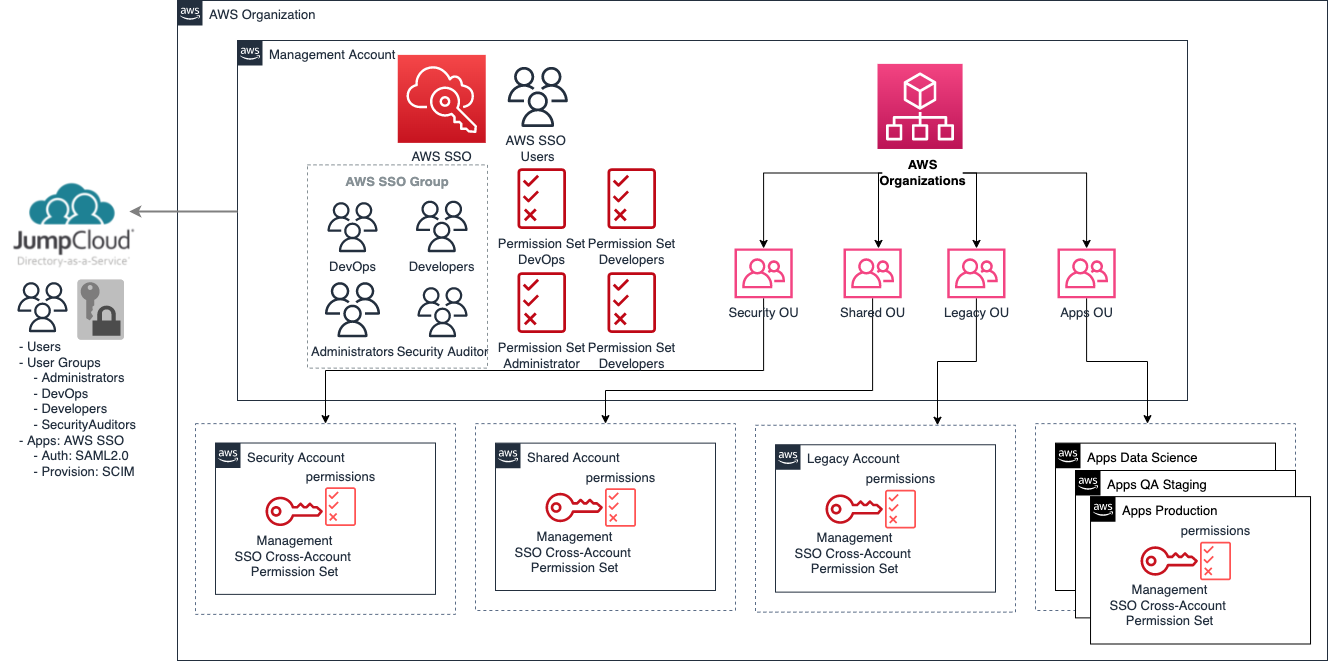
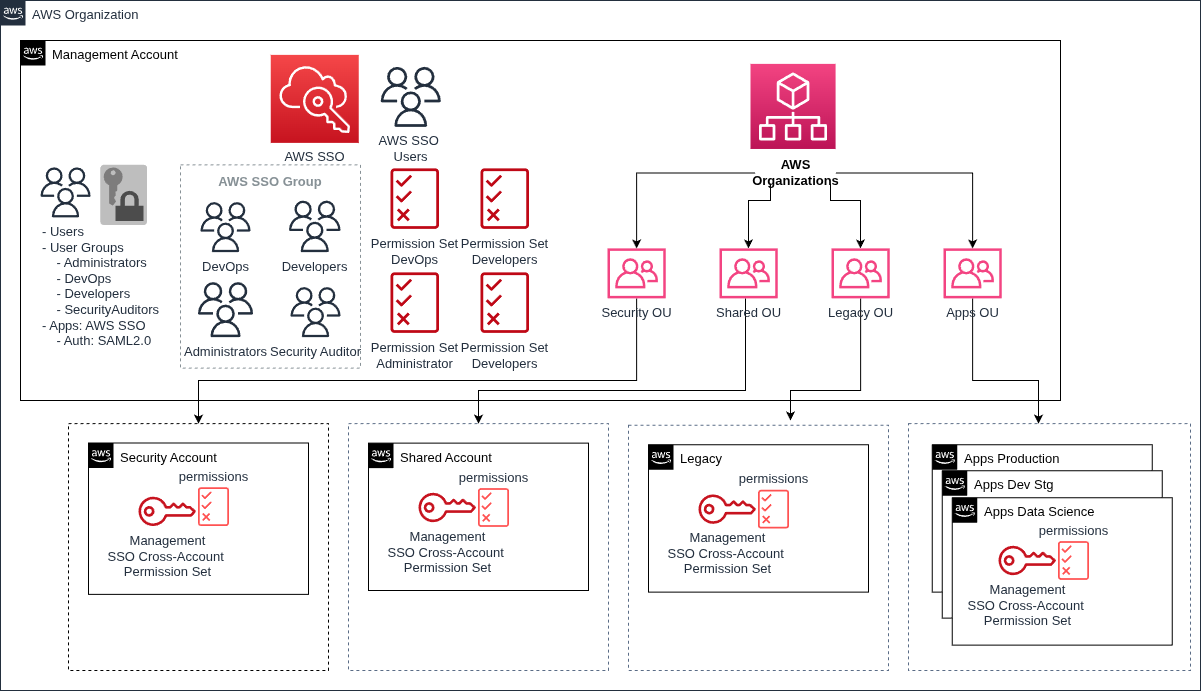
Remove references to JumpCloud

diff --git a/docs/user-guide/ref-architecture-aws/features/sso/overview.md b/docs/user-guide/ref-architecture-aws/features/sso/overview.md
@@ -1,16 +1,8 @@
 # AWS SSO
 
-!!! warn "Important"
-    Parts of this documentation are outdated. JumpCloud is no longer part of our reference architecture.
-
-## Single Sign-On (SSO)
-JumpCloud will be configured as the Identity Provider (IdP) that we will integrate with AWS SSO
-in order to grant users access to AWS resources from a centralized service.
-Users will be able to log in to JumpCloud in order to access AWS accounts, using specific permission sets that will in turn determine what kind of actions they are allowed on AWS resources.
-
 ![leverage-aws-sso](/assets/images/diagrams/aws-sso.png "Leverage"){: style="width:750px"}
 <figcaption style="font-size:15px">
-<b>Figure:</b> AWS Organization with SSO + JumpCloud IdP diagram.
+<b>Figure:</b> AWS Organization with SSO diagram.
 (Source: binbash Leverage,
 "Leverage Reference Architecture components",
 binbash Leverage Doc, accessed January 4th 2022).
@@ -23,9 +15,6 @@ binbash Leverage Doc, accessed January 4th 2022).
 - [x] SSO and user lifecycle management
 - [x] Secure app and server authentication with cloud LDAP
 - [x] Event logging, reporting, and monitoring
-
-### SSO Users
-Users will be defined in JumpCloud and used for deploying AWS resources with scoped permissions.
 
 ### SSO Groups
 | Account / Groups | Administrators | DevOps | FinOps | SecurityAuditors |
@@ -46,6 +35,5 @@ Users will be defined in JumpCloud and used for deploying AWS resources with sco
 | Apps-Prd                  | x             | x      |        | x                |
 
 !!! Info "Considerations"
-     1. Devops Engineers will assume this permission set through JumpCloud + AWS SSO.
-     2. Developers could have their specific SSO Group + Permission Set policy association.
-     3. This definition could be fully customized based on the project specific needs
+     1. Developers could have their specific SSO Group + Permission Set policy association.
+     2. This definition could be fully customized based on the project specific needs

diff --git a/docs/user-guide/ref-architecture-aws/features/sso/configuration.md b/docs/user-guide/ref-architecture-aws/features/sso/configuration.md
@@ -6,11 +6,6 @@ Before deploying your AWS SSO definition in the project, it will first have to b
 !!! note ":books: [Prerequisites](https://docs.aws.amazon.com/singlesignon/latest/userguide/prereqs.html)"
 !!! info ":books: [Enable AWS SSO](https://docs.aws.amazon.com/singlesignon/latest/userguide/step1.html)"
 
-After that, choosing and configuring an Identity Provider (IdP) is the next step. For this, we will make use of JumpCloud, as described in the [how it works](/user-guide/ref-architecture-aws/features/sso/overview/) section. These resources point to all requirements and procedures to have your JumpCloud account setup and synched with AWS SSO:
-
-!!! info ":books: [AWS JumpCloud support guide](https://docs.aws.amazon.com/singlesignon/latest/userguide/jumpcloud-idp.html)"
-!!! info ":books: [JumpCloud guide on how to configure as IdP for AWS SSO](https://docs.aws.amazon.com/singlesignon/latest/userguide/jumpcloud-idp.html)"
-
 Once this is set up, the SSO layer can be safely deployed.
 
 ## Preparing the project to use AWS SSO

diff --git a/docs/user-guide/ref-architecture-aws/features/index.md b/docs/user-guide/ref-architecture-aws/features/index.md
@@ -17,7 +17,7 @@ This reference architecture supports a growing number of AWS services. This sect
     - [x] [Hashicorp Vault Credentials](identities/credentials-vault.md)
 
 !!! check "Single Sign-On (SSO)"
-    - [x] [AWS SSO + Jumpcloud IdP](sso/overview.md)
+    - [x] [AWS SSO](sso/overview.md)
 
 !!! check "Cost Monitoring & Optimization"
     - [x] [Costs](costs/costs.md)
